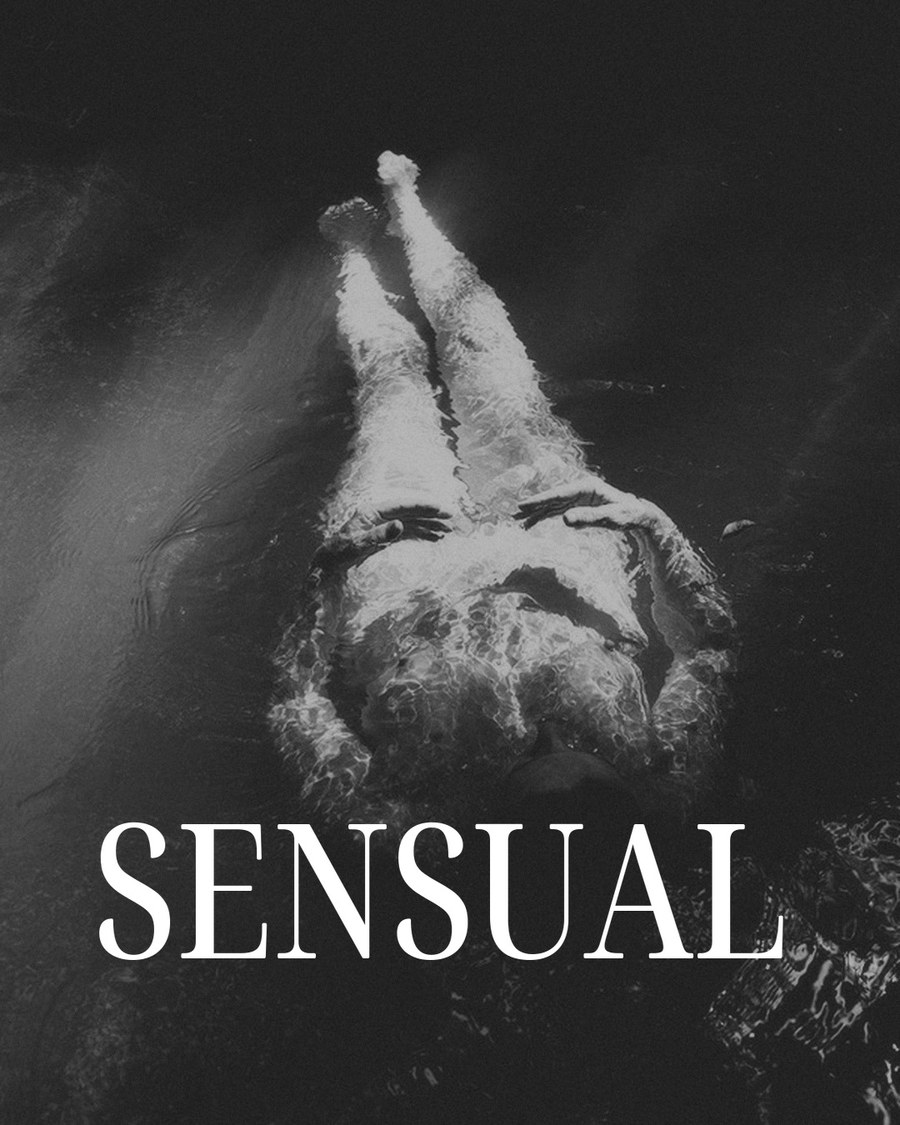
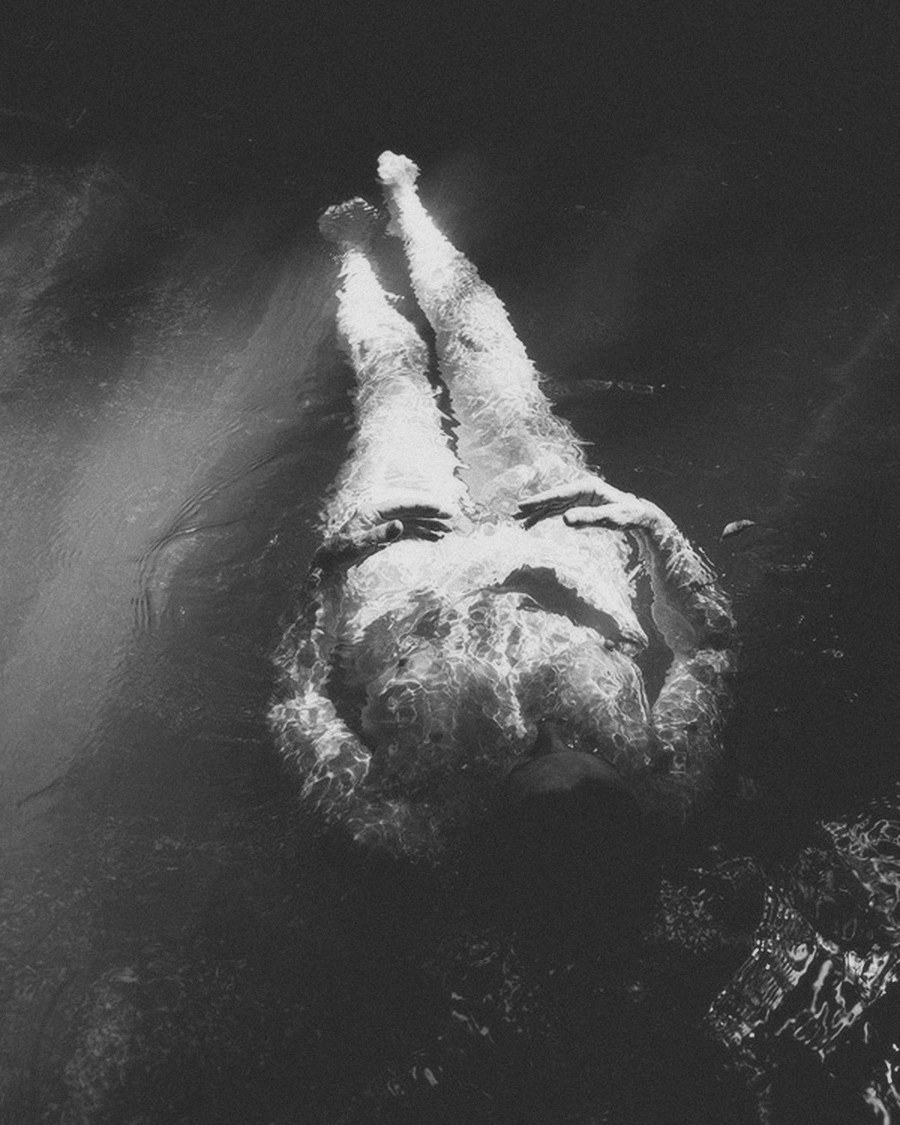
Tile 18: no SENSUAL word (old SENSUAL post stays live)

diff --git a/grid-restart-review/index.html b/grid-restart-review/index.html
@@ -75,7 +75,7 @@ textarea::placeholder{color:var(--muted)}
   <img src="img/grid.jpg" alt="The finished 24-image grid, 3 images across">
   <div class="txt">
     <h2>The whole grid</h2>
-    <p>Your layout, tile for tile: 12 posts carry one of your words (ORGANIC and FEMININE are the two to pin at the top), the other 12 are photos. Every caption is taken word for word from your own pages and posts.</p>
+    <p>Your layout, tile for tile: 11 posts carry one of your words (ORGANIC and FEMININE are the two to pin at the top), the other 13 are photos. Every caption is taken word for word from your own pages and posts.</p>
     <p>When you are done, press <b>Send on WhatsApp</b>, or <b>Copy verdict</b> to paste it anywhere.</p>
   </div>
 </div>
@@ -89,7 +89,7 @@ textarea::placeholder{color:var(--muted)}
 </div>
 </div>
 <script>
-const ITEMS = [{"n": 1, "src": "img/t01.jpg", "word": null, "cap": "Although we can become aware with the conscious mind of how our psyche is operating, unless the material is felt, welcomed and breathed into, nothing will shift. Until we feel our sensations and emotions, be with them, communicate with them, and stabilise our nervous system back into a sense of safety, we will not be able to relate to and make meaning of our experience in an embodied way. When we don’t listen to the body, we continue to live in separation from its wisdom. This fracture manifests not only in our relationship with ourselves, but with others, the earth and life itself.\n\nModern-day psychological approaches such as CBT are hyper-oriented to a mind-based understanding of our psychology and trauma. But until we merge the body/mind as one function; one operating system, I believe that the path towards truly integrating our pain, pleasure and potential will be stuck in the same old loops."}, {"n": 2, "src": "img/t02.jpg", "word": null, "cap": "Being free, embodied, and fully alive in our bodies as women is our birthright. But countless women around the world remain deeply oppressed, their voices silenced and their freedom denied. As women with access to greater freedoms, we hold a profound opportunity - and responsibility - to harness the liberties we have, breaking through the unconscious shackles we often don’t realize we carry. When we do this, we restore our frequency and being to their rightful, embodied, and liberated state.\n\nThis journey is not merely for our pleasure, although pleasure is essential and sacred. It is also for the women who cannot yet claim this freedom. Every step we take toward embodying our wholeness sends ripples outward, a quiet revolution of sovereignty that transcends borders and boundaries. We rise not just for ourselves, but for every woman still waiting for the chance to rise."}, {"n": 3, "src": "img/t03.jpg", "word": "FEMININE", "cap": "The Patriarchal Feminine manages herself.\nThe Organic Feminine inhabits herself.\n\nManaging myself looks like:\nholding my breath to be chosen,\nediting my truth to stay safe,\nmonitoring my body as something to control.\n\nIt’s not a flaw.\nIt’s an adaptation.\n\nInhabiting myself feels like:\narriving inside my breath,\ntrusting sensation,\nletting my yes and no come from the body.\n\nNo performance.\nNo strategy.\n\nThe shift from managing to inhabiting\nis not a mindset change\nit’s a somatic return.\n\nFrom control to presence.\nFrom survival to aliveness.\nFrom being handled\nto being home in myself."}, {"n": 4, "src": "img/t04.jpg", "word": null, "cap": "There really is no greater teacher in our lives than relationship to show us the truth.\n\nBut when we are there, in the thick of it, no matter how many years of personal work you've done... when we meet ourself in that deep, unbearable pain of vulnerability... what remains when the ideals of our perfect, conscious, integrated identity falls away?\n\nDirect, present moment relating from somatic intelligence is the ground of all relating. Beyond narratives and identity. Beyond structures and forms."}, {"n": 5, "src": "img/t05.jpg", "word": "SILENCE", "cap": "The body contracts when we don’t allow ourselves to reveal who we are, out of fear of rejection or of being judged as too much. So we stay quiet, calm, agreeable and nice. We swallow our words, and our bodies are left full with what is unsaid.\n\nSome days we name the grief beneath our rage.\nOther days we laugh through the awkwardness of old patterns.\nAnd sometimes, we simply breathe together in silence."}, {"n": 6, "src": "img/t06.jpg", "word": null, "cap": "As women, many of us often don't feel safe to just be ourselves. We were programmed & socialised to please others & live by unattainable standards of perfection & \"femininity\". We were taught to fixate on what we do, how we look, how successful, youthful & sexy we are, to affirm our worth."}, {"n": 7, "src": "img/t07.jpg", "word": "ALIVENESS", "cap": "You’ve been going through the motions and you’re exhausted by the distance between who you perform and who you actually are.\n\nYou long to feel alive in your body again, not just healthy, not just functional. Sensorially, genuinely alive.\n\nShadow work isn’t about fixing ourselves. It’s about remembering ourselves.\nIt’s the path from fragmentation to wholeness.\nFrom performance to presence.\nFrom numbness to feeling deeply, fully, vividly alive.\n\nWhat I’ve discovered, through fifteen years of this work, is that the body doesn’t forget. Beneath the conditioning, beneath the performance, beneath the exhaustion — the sensuous self is still there. Patient. Alive. Ready."}, {"n": 8, "src": "img/t08.jpg", "word": null, "cap": "When we make the choice to really sink into the world and wisdom of the body, we can learn the tools to be safe enough to simply feel, and we can invite our shadow back into our space with open arms.\n\nWe can lean in and submerge into our unconscious material in a way that allows the hidden, denied and exiled parts of ourselves to come back into the forefront of our expression. Rather than analysing, observing, or understanding them, we give them a tangible place to live in: inside our own skin.\n\nVery often, inside the parts that were pushed away, or that we learnt were not OK to reveal to ourselves or others, is where our real, soul-based expression comes alive.\n\nWhere our deepest calling for life, creativity, connection and purpose live."}, {"n": 9, "src": "img/t09.jpg", "word": "SOMA", "cap": "Our Western, patriarchal and colonial value systems have conditioned us to look outside of ourselves for authority, education, connection, pleasure, purpose and meaning.\n\nThis programming has exalted the mind, intellect and external orientation over the intelligence of the body and our own internal relationship with our visceral, powerful, sensual, heartful selves. We have normalised the constant and dissatisfying reaching and searching for fullness, nourishment and connection outside of our own skin.\n\nTo meet ourselves through our bodies and to live our lives in harmony with their ancient knowing, is to come into deep relationship with our innate WHOLENESS. This in itself is an act of resistance, as we subvert the cultural narrative of needing to consume more, do more and be more, and instead rest back into that which we already have and are."}, {"n": 10, "src": "img/t10.jpg", "word": null, "cap": "How can we reshape our approach to leadership, moving beyond the striving, the constant push to be better, the incessant honing of skills in the quest to become the best version of ourselves?\n\nInstead, what if we re-center our value system around leadership with the profound understanding that who we are, rather than what we do, is the true leader.\n\nBy anchoring ourselves in pleasure, we become the deeply attuned leaders who walk the paths that we inspire our communities to follow. Because we know that the way we lead mirrors the way we live."}, {"n": 11, "src": "img/t11.jpg", "word": "SLOW", "cap": "Within our somatics training, we prioritize the power of slowing down. Through this deliberate deceleration, we recalibrate our nervous system and cultivate a profound sense of bodily safety. Central to this is the practice of titration, which fine-tunes our nervous system's responses, ensuring a gentle and measured emotional journey. Where trauma can be overwhelming, titration emerges as its soothing counterbalance. More than just a technique, titration supports a broader paradigm shift, inviting a renewed approach to living, being, relating, and coaching. In contrast to our fast-paced culture, it places emphasis on time, rest, and presence in all life's facets, suggesting that slowing down is not just beneficial but essential. By embracing this philosophy as a lifestyle we start to feel ourselves, others & life in a new way- A way that feels deeply natural and connected."}, {"n": 12, "src": "img/t12.jpg", "word": "ORGANIC", "cap": "The Organic Feminine Principle is the compass that guides us towards our natural embodiment, beyond the confines of the outdated programming that has infiltrated our bodies, nervous systems, and the collective female psyche.\n\nThis principle moves us beyond narrow, restrictive notions of femininity to reclaim the wild, natural tapestry that is life in a woman's body.\n\nAt its heart, the Organic Feminine Principle is about embracing our innate somatic feminine intelligence. It encourages a rekindling of connection and trust in our cyclical nature, recognizing the messages of our nervous systems, and valuing our sensations and emotions as crucial sources of guidance and information. It invites us to celebrate our sensuality as a profound, life-affirming force that connects us deeply with ourselves, our community, and the world around us.\n\nRegardless of the stage of life you are in as women, the organic feminine principle invites you to return to a natural, embodied and truthful way of living."}, {"n": 13, "src": "img/t13.jpg", "word": "BREATH", "cap": "Questions to come back to your body:\n\nWhere is my breath and how is my breath, \n\nWhat is my body posture / expression communicating, \n\nWhat emotion is here, what images arise, what thoughts are here, what assumptions am I having right now?\n\nWhat do I feel is true, what can I reveal, even if it breaks my self image to pieces?"}, {"n": 14, "src": "img/t14.jpg", "word": null, "cap": "Sensuality is the capacity to feel, to be present in your skin, alive to texture and temperature, awake to your own breath. And it belongs to ALL women :\n\naging women\nlarge women\ndisabled women\ntired women\ngrieving women\nunconventional women\nwomen outside beauty standards\n\nWomen at any stage of their life.\n\nThis capacity was yours before anyone told you what your body should look like. It's yours still."}, {"n": 15, "src": "img/t15.jpg", "word": "LISTEN", "cap": "What does it mean to truly listen? Not just through the ears or the intellect of the mind, but through the body itself?\n\nWhen we enter the world of somatics, we begin to cultivate a different kind of listening. We learn to attune to sensation, to impulse, to the tensions that arise, the temperatures that fluctuate, the pulsations that move through us, and the emotions that live beneath our words.\n\nWe begin to recognise that the body has its own language. One that does not always speak in thoughts, explanations or neatly formed narratives.\n\nListening through the body is not simply another skill to acquire. It is a reclamation of an intelligence we have been conditioned to disconnect from in a world that privileges the intellect over embodied knowing.\n\nWe have been taught to think our way through life, to rationalise our feelings, override our impulses and seek answers outside of ourselves, often before we have even paused to feel what is happening within us.\n\nOne of the most powerful and sovereign acts we can undertake is to reclaim our capacity to listen through the body.\n\nTo remember that knowing is not only something we think.\n\nIt is something we feel, sense and experience.\n\nAnd sometimes, the body knows long before the mind has found the words."}, {"n": 16, "src": "img/t16.jpg", "word": null, "cap": "What patterns do I keep repeating that hold me in cycles of disconnection?\n\nAm I aware of the stories I have created that keep me separate from my own power?\n\nCan I recognise the subtle ways I diminish myself? The ways I put myself down, question my worth, abandon my needs or make myself smaller than I truly am?\n\nWhat beliefs have I rehearsed so many times that I have come to mistake them for truth?\n\nAnd where am I still participating in my own disconnection, not because I consciously choose it, but because it has become so familiar that I no longer recognise it?\n\nWhat parts of myself am I ready to reclaim?\n\nAnd who might I become if I stopped relating to myself through the stories that have kept me small?"}, {"n": 17, "src": "img/t17.jpg", "word": "WILD", "cap": "Wild.\n\nWhat does this word awaken in you?\n\nWhat feelings arise when you sit with your own Wild? Do you know her? Have you met the parts of yourself that refuse to be tamed, softened, silenced or made more palatable?\n\nHas she claimed you yet? Have you allowed her to?\n\nOr are you still subscribed to the conditioning that keeps you neatly packaged, contained and pleasing? Performing a version of femininity that is acceptable, desirable and digestible through the patriarchal gaze?\n\nWhat might emerge if you stopped trying to be the kind of woman you were taught to be?\n\nWho is the woman beneath the conditioning?\n\nAnd what would it mean to let her be truly Wild?"}, {"n": 18, "src": "img/t18.jpg", "word": "SENSUAL", "cap": "Sensuality belongs to all women.\n\nSensuality is not inherently sexual. It is not about sex, desirability or how we are perceived by another.\n\nIt is about the deeply felt experience of being alive.\n\nThe capacity to sense, to feel, to be moved by life. To experience pleasure through our senses, to inhabit the textures of our bodies, to feel the richness of our own existence.\n\nWhere have you conflated sensuality with sexuality? Where have you learned to associate your sensual nature with being sexually available, desirable or pleasing to another?\n\nAnd in doing so, where have you denied yourself your own birthright?\n\nThe right to feel deeply. To experience pleasure without it needing to lead anywhere. To belong to your body without it being for anyone else’s consumption.\n\nWhen sensuality becomes something we associate only with sexuality, we risk disconnecting from one of the most fundamental aspects of our embodied experience as women.\n\nWe forget that our sensuality exists for us.\n\nIn the warmth of sunlight against our skin. In the pleasure of movement. In the textures, tastes, sounds and sensations that remind us we are living, breathing, feeling beings.\n\nYour sensuality is not something you perform. It is something you inhabit.\n\nAnd reclaiming it is reclaiming your birthright to live a fully felt, embodied and profoundly alive life as a woman."}, {"n": 19, "src": "img/t19.jpg", "word": "FEEL", "cap": "FEEL.\n\nWhat if the whole point of being alive is to feel?\n\nTo feel the fullness of this human experience. The beauty, the grief, the longing, the pleasure, the tenderness, the discomfort. All of it.\n\nAnd yet, we are so terrified of feeling.\n\nWe block, we numb, we avoid, we distract. We build lives around keeping ourselves occupied, seeking stimulation outside of ourselves, finding endless ways to escape the very sensations that remind us we are alive.\n\nAnd somewhere along the way, we begin living a life half-lived.\n\nA life experienced from the outside in, where we are moving through the world, but the world is no longer truly touching us from within.\n\nWhat does it mean to truly feel?\n\nTo sense the continuous micro-movements of life happening inside us? The subtle shifts, the contractions, the expansions, the pulsations, the emotions that rise and fall like waves?\n\nTo allow ourselves to be touched by life rather than constantly protecting ourselves from it?\n\nThis is not about overwhelming ourselves with feeling or forcing ourselves to experience everything at once. It is about slowly cultivating the capacity to be with more of our own aliveness.\n\nTo discover that we can feel deeply without losing ourselves.\n\nThat our sensitivity is not something to overcome, but something that connects us to the extraordinary intimacy of being human.\n\nWe did not come here simply to observe life from a safe distance. We came here to be touched by it. To feel it moving through us. To be fully, profoundly alive."}, {"n": 20, "src": "img/t20.jpg", "word": null, "cap": "What would it be like if you took a moment each day to simply be?\n\nTo sit with the rocks, the water, the sound of the waves pressing against the shore. To feel the wind kissing your skin. To notice the subtle movements of life happening all around you, without needing to do anything with them.\n\nHow much of this do you give yourself?\n\nHow much space is there in your life for this kind of simplicity? For moments that ask nothing of you, where there is nowhere to get to, nothing to achieve, nothing to become?\n\nIn our constant seeking outside of ourselves, how far have we wandered from the simple beauty of being alive? From our relationship with nature, with stillness, with the quiet intimacy of the present moment?\n\nSomatics offers us a pathway back. A way of cultivating enough safety within ourselves to slow down, to soften our urgency, to feel the textures of life rather than constantly moving through them.\n\nTo remember that beauty is not always something we need to seek, create or chase.\n\nSometimes it is right here.\n\nIn the water. In the rocks. In the wind against our skin.\n\nIn the extraordinary simplicity of being alive.\n\nAnd in this moment, I find myself needing nothing else."}, {"n": 21, "src": "img/t21.jpg", "word": null, "cap": "It can feel like you’re alone in these feelings, but I want you to know that most women learned these sorts of very restrictive rules about themselves from a very young age. Our collective culture defined sensuality as the exclusive domain of the young, skinny, stereotypical model type of woman.\n\nBut this version of “woman” is a myth. It’s a fiction. This narrow definition of sensuality excludes almost every single woman on the planet.\n\nAnd the truth is - all of us human beings are worthy of a rich, delicious and nourishing connection to our sensuality, no matter your age, shape, size, or background."}, {"n": 22, "src": "img/t22.jpg", "word": null, "cap": "Now more than ever, what we need is embodied, attuned, and empathic presence.\n\nOur very essence is woven from connection - the innate desire to co-regulate, co-heal, and co-explore life's journey. Yet, many of us experienced a rupture in our earliest years, a lack of the attunement we needed as infants. This absence has contributed to a culture & life that often feels disconnected and disembodied.\n\nWe have the opportunity to change that together through somatics."}, {"n": 23, "src": "img/t23.jpg", "word": "BODY", "cap": "What happens when you begin to inhabit your body rather than objectify it?\n\nAt the heart of somatics is the practice of inhabitation. Learning to live inside the body rather than constantly managing it from the outside.\n\nSo much of our relationship with our bodies has been shaped by how we look, how we are perceived, how desirable we are, and how well we conform to aesthetic ideals.\n\nWe have learned to see ourselves through the eyes of others, to monitor, control, perfect and perform our bodies rather than actually live within them.\n\nTo begin feeling ourselves rather than constantly looking at ourselves is a profound paradigm shift.\n\nAnd yet, for many of us, this return to the body can feel deeply uncomfortable, even unsafe.\n\nWe may have spent years feeling betrayed by our bodies, overwhelmed by our emotions, disconnected from our sensations or frightened by the discomfort that lives within us.\n\nSometimes leaving the body, numbing ourselves or relating to it as an object was the very way we learned to survive.\n\nSo the invitation is not to force ourselves back in, but to slowly, gently cultivate a relationship with the body that feels safe enough to inhabit.\n\nTo begin listening rather than controlling. Feeling rather than performing. Living from within rather than constantly observing ourselves from the outside.\n\nThere is something profoundly liberating about reclaiming our bodies from the gaze of the world.\n\nAbout no longer treating the body as something we must endlessly improve in order to be worthy of inhabiting.\n\nYour body is not simply an object to be looked at, perfected or made desirable. It is the very place from which you experience being alive.\n\nAnd learning to come home to ourselves, to reclaim the parts of us that have been disconnected, objectified and abandoned, may be one of the most beautiful and profound acts of sovereignty we can undertake in this lifetime."}, {"n": 24, "src": "img/t24.jpg", "word": null, "cap": "Sensuality isn’t about being looked at, it’s about being felt.\n\nAnd, from a young age, many women learn to see themselves through someone else’s eyes. Instead of living inside the body, we monitor it: how it looks, how it’s judged, how it might be consumed.\n\nAnd woven through all of this is the quiet programming that sensuality belongs to other women\nthe younger women,\nthe thinner women,\nthe desirable women,\nthe women whose bodies fit the cultural script of femininity."}];
+const ITEMS = [{"n": 1, "src": "img/t01.jpg", "word": null, "cap": "Although we can become aware with the conscious mind of how our psyche is operating, unless the material is felt, welcomed and breathed into, nothing will shift. Until we feel our sensations and emotions, be with them, communicate with them, and stabilise our nervous system back into a sense of safety, we will not be able to relate to and make meaning of our experience in an embodied way. When we don’t listen to the body, we continue to live in separation from its wisdom. This fracture manifests not only in our relationship with ourselves, but with others, the earth and life itself.\n\nModern-day psychological approaches such as CBT are hyper-oriented to a mind-based understanding of our psychology and trauma. But until we merge the body/mind as one function; one operating system, I believe that the path towards truly integrating our pain, pleasure and potential will be stuck in the same old loops."}, {"n": 2, "src": "img/t02.jpg", "word": null, "cap": "Being free, embodied, and fully alive in our bodies as women is our birthright. But countless women around the world remain deeply oppressed, their voices silenced and their freedom denied. As women with access to greater freedoms, we hold a profound opportunity - and responsibility - to harness the liberties we have, breaking through the unconscious shackles we often don’t realize we carry. When we do this, we restore our frequency and being to their rightful, embodied, and liberated state.\n\nThis journey is not merely for our pleasure, although pleasure is essential and sacred. It is also for the women who cannot yet claim this freedom. Every step we take toward embodying our wholeness sends ripples outward, a quiet revolution of sovereignty that transcends borders and boundaries. We rise not just for ourselves, but for every woman still waiting for the chance to rise."}, {"n": 3, "src": "img/t03.jpg", "word": "FEMININE", "cap": "The Patriarchal Feminine manages herself.\nThe Organic Feminine inhabits herself.\n\nManaging myself looks like:\nholding my breath to be chosen,\nediting my truth to stay safe,\nmonitoring my body as something to control.\n\nIt’s not a flaw.\nIt’s an adaptation.\n\nInhabiting myself feels like:\narriving inside my breath,\ntrusting sensation,\nletting my yes and no come from the body.\n\nNo performance.\nNo strategy.\n\nThe shift from managing to inhabiting\nis not a mindset change\nit’s a somatic return.\n\nFrom control to presence.\nFrom survival to aliveness.\nFrom being handled\nto being home in myself."}, {"n": 4, "src": "img/t04.jpg", "word": null, "cap": "There really is no greater teacher in our lives than relationship to show us the truth.\n\nBut when we are there, in the thick of it, no matter how many years of personal work you've done... when we meet ourself in that deep, unbearable pain of vulnerability... what remains when the ideals of our perfect, conscious, integrated identity falls away?\n\nDirect, present moment relating from somatic intelligence is the ground of all relating. Beyond narratives and identity. Beyond structures and forms."}, {"n": 5, "src": "img/t05.jpg", "word": "SILENCE", "cap": "The body contracts when we don’t allow ourselves to reveal who we are, out of fear of rejection or of being judged as too much. So we stay quiet, calm, agreeable and nice. We swallow our words, and our bodies are left full with what is unsaid.\n\nSome days we name the grief beneath our rage.\nOther days we laugh through the awkwardness of old patterns.\nAnd sometimes, we simply breathe together in silence."}, {"n": 6, "src": "img/t06.jpg", "word": null, "cap": "As women, many of us often don't feel safe to just be ourselves. We were programmed & socialised to please others & live by unattainable standards of perfection & \"femininity\". We were taught to fixate on what we do, how we look, how successful, youthful & sexy we are, to affirm our worth."}, {"n": 7, "src": "img/t07.jpg", "word": "ALIVENESS", "cap": "You’ve been going through the motions and you’re exhausted by the distance between who you perform and who you actually are.\n\nYou long to feel alive in your body again, not just healthy, not just functional. Sensorially, genuinely alive.\n\nShadow work isn’t about fixing ourselves. It’s about remembering ourselves.\nIt’s the path from fragmentation to wholeness.\nFrom performance to presence.\nFrom numbness to feeling deeply, fully, vividly alive.\n\nWhat I’ve discovered, through fifteen years of this work, is that the body doesn’t forget. Beneath the conditioning, beneath the performance, beneath the exhaustion — the sensuous self is still there. Patient. Alive. Ready."}, {"n": 8, "src": "img/t08.jpg", "word": null, "cap": "When we make the choice to really sink into the world and wisdom of the body, we can learn the tools to be safe enough to simply feel, and we can invite our shadow back into our space with open arms.\n\nWe can lean in and submerge into our unconscious material in a way that allows the hidden, denied and exiled parts of ourselves to come back into the forefront of our expression. Rather than analysing, observing, or understanding them, we give them a tangible place to live in: inside our own skin.\n\nVery often, inside the parts that were pushed away, or that we learnt were not OK to reveal to ourselves or others, is where our real, soul-based expression comes alive.\n\nWhere our deepest calling for life, creativity, connection and purpose live."}, {"n": 9, "src": "img/t09.jpg", "word": "SOMA", "cap": "Our Western, patriarchal and colonial value systems have conditioned us to look outside of ourselves for authority, education, connection, pleasure, purpose and meaning.\n\nThis programming has exalted the mind, intellect and external orientation over the intelligence of the body and our own internal relationship with our visceral, powerful, sensual, heartful selves. We have normalised the constant and dissatisfying reaching and searching for fullness, nourishment and connection outside of our own skin.\n\nTo meet ourselves through our bodies and to live our lives in harmony with their ancient knowing, is to come into deep relationship with our innate WHOLENESS. This in itself is an act of resistance, as we subvert the cultural narrative of needing to consume more, do more and be more, and instead rest back into that which we already have and are."}, {"n": 10, "src": "img/t10.jpg", "word": null, "cap": "How can we reshape our approach to leadership, moving beyond the striving, the constant push to be better, the incessant honing of skills in the quest to become the best version of ourselves?\n\nInstead, what if we re-center our value system around leadership with the profound understanding that who we are, rather than what we do, is the true leader.\n\nBy anchoring ourselves in pleasure, we become the deeply attuned leaders who walk the paths that we inspire our communities to follow. Because we know that the way we lead mirrors the way we live."}, {"n": 11, "src": "img/t11.jpg", "word": "SLOW", "cap": "Within our somatics training, we prioritize the power of slowing down. Through this deliberate deceleration, we recalibrate our nervous system and cultivate a profound sense of bodily safety. Central to this is the practice of titration, which fine-tunes our nervous system's responses, ensuring a gentle and measured emotional journey. Where trauma can be overwhelming, titration emerges as its soothing counterbalance. More than just a technique, titration supports a broader paradigm shift, inviting a renewed approach to living, being, relating, and coaching. In contrast to our fast-paced culture, it places emphasis on time, rest, and presence in all life's facets, suggesting that slowing down is not just beneficial but essential. By embracing this philosophy as a lifestyle we start to feel ourselves, others & life in a new way- A way that feels deeply natural and connected."}, {"n": 12, "src": "img/t12.jpg", "word": "ORGANIC", "cap": "The Organic Feminine Principle is the compass that guides us towards our natural embodiment, beyond the confines of the outdated programming that has infiltrated our bodies, nervous systems, and the collective female psyche.\n\nThis principle moves us beyond narrow, restrictive notions of femininity to reclaim the wild, natural tapestry that is life in a woman's body.\n\nAt its heart, the Organic Feminine Principle is about embracing our innate somatic feminine intelligence. It encourages a rekindling of connection and trust in our cyclical nature, recognizing the messages of our nervous systems, and valuing our sensations and emotions as crucial sources of guidance and information. It invites us to celebrate our sensuality as a profound, life-affirming force that connects us deeply with ourselves, our community, and the world around us.\n\nRegardless of the stage of life you are in as women, the organic feminine principle invites you to return to a natural, embodied and truthful way of living."}, {"n": 13, "src": "img/t13.jpg", "word": "BREATH", "cap": "Questions to come back to your body:\n\nWhere is my breath and how is my breath, \n\nWhat is my body posture / expression communicating, \n\nWhat emotion is here, what images arise, what thoughts are here, what assumptions am I having right now?\n\nWhat do I feel is true, what can I reveal, even if it breaks my self image to pieces?"}, {"n": 14, "src": "img/t14.jpg", "word": null, "cap": "Sensuality is the capacity to feel, to be present in your skin, alive to texture and temperature, awake to your own breath. And it belongs to ALL women :\n\naging women\nlarge women\ndisabled women\ntired women\ngrieving women\nunconventional women\nwomen outside beauty standards\n\nWomen at any stage of their life.\n\nThis capacity was yours before anyone told you what your body should look like. It's yours still."}, {"n": 15, "src": "img/t15.jpg", "word": "LISTEN", "cap": "What does it mean to truly listen? Not just through the ears or the intellect of the mind, but through the body itself?\n\nWhen we enter the world of somatics, we begin to cultivate a different kind of listening. We learn to attune to sensation, to impulse, to the tensions that arise, the temperatures that fluctuate, the pulsations that move through us, and the emotions that live beneath our words.\n\nWe begin to recognise that the body has its own language. One that does not always speak in thoughts, explanations or neatly formed narratives.\n\nListening through the body is not simply another skill to acquire. It is a reclamation of an intelligence we have been conditioned to disconnect from in a world that privileges the intellect over embodied knowing.\n\nWe have been taught to think our way through life, to rationalise our feelings, override our impulses and seek answers outside of ourselves, often before we have even paused to feel what is happening within us.\n\nOne of the most powerful and sovereign acts we can undertake is to reclaim our capacity to listen through the body.\n\nTo remember that knowing is not only something we think.\n\nIt is something we feel, sense and experience.\n\nAnd sometimes, the body knows long before the mind has found the words."}, {"n": 16, "src": "img/t16.jpg", "word": null, "cap": "What patterns do I keep repeating that hold me in cycles of disconnection?\n\nAm I aware of the stories I have created that keep me separate from my own power?\n\nCan I recognise the subtle ways I diminish myself? The ways I put myself down, question my worth, abandon my needs or make myself smaller than I truly am?\n\nWhat beliefs have I rehearsed so many times that I have come to mistake them for truth?\n\nAnd where am I still participating in my own disconnection, not because I consciously choose it, but because it has become so familiar that I no longer recognise it?\n\nWhat parts of myself am I ready to reclaim?\n\nAnd who might I become if I stopped relating to myself through the stories that have kept me small?"}, {"n": 17, "src": "img/t17.jpg", "word": "WILD", "cap": "Wild.\n\nWhat does this word awaken in you?\n\nWhat feelings arise when you sit with your own Wild? Do you know her? Have you met the parts of yourself that refuse to be tamed, softened, silenced or made more palatable?\n\nHas she claimed you yet? Have you allowed her to?\n\nOr are you still subscribed to the conditioning that keeps you neatly packaged, contained and pleasing? Performing a version of femininity that is acceptable, desirable and digestible through the patriarchal gaze?\n\nWhat might emerge if you stopped trying to be the kind of woman you were taught to be?\n\nWho is the woman beneath the conditioning?\n\nAnd what would it mean to let her be truly Wild?"}, {"n": 18, "src": "img/t18.jpg", "word": null, "cap": "Sensuality belongs to all women.\n\nSensuality is not inherently sexual. It is not about sex, desirability or how we are perceived by another.\n\nIt is about the deeply felt experience of being alive.\n\nThe capacity to sense, to feel, to be moved by life. To experience pleasure through our senses, to inhabit the textures of our bodies, to feel the richness of our own existence.\n\nWhere have you conflated sensuality with sexuality? Where have you learned to associate your sensual nature with being sexually available, desirable or pleasing to another?\n\nAnd in doing so, where have you denied yourself your own birthright?\n\nThe right to feel deeply. To experience pleasure without it needing to lead anywhere. To belong to your body without it being for anyone else’s consumption.\n\nWhen sensuality becomes something we associate only with sexuality, we risk disconnecting from one of the most fundamental aspects of our embodied experience as women.\n\nWe forget that our sensuality exists for us.\n\nIn the warmth of sunlight against our skin. In the pleasure of movement. In the textures, tastes, sounds and sensations that remind us we are living, breathing, feeling beings.\n\nYour sensuality is not something you perform. It is something you inhabit.\n\nAnd reclaiming it is reclaiming your birthright to live a fully felt, embodied and profoundly alive life as a woman."}, {"n": 19, "src": "img/t19.jpg", "word": "FEEL", "cap": "FEEL.\n\nWhat if the whole point of being alive is to feel?\n\nTo feel the fullness of this human experience. The beauty, the grief, the longing, the pleasure, the tenderness, the discomfort. All of it.\n\nAnd yet, we are so terrified of feeling.\n\nWe block, we numb, we avoid, we distract. We build lives around keeping ourselves occupied, seeking stimulation outside of ourselves, finding endless ways to escape the very sensations that remind us we are alive.\n\nAnd somewhere along the way, we begin living a life half-lived.\n\nA life experienced from the outside in, where we are moving through the world, but the world is no longer truly touching us from within.\n\nWhat does it mean to truly feel?\n\nTo sense the continuous micro-movements of life happening inside us? The subtle shifts, the contractions, the expansions, the pulsations, the emotions that rise and fall like waves?\n\nTo allow ourselves to be touched by life rather than constantly protecting ourselves from it?\n\nThis is not about overwhelming ourselves with feeling or forcing ourselves to experience everything at once. It is about slowly cultivating the capacity to be with more of our own aliveness.\n\nTo discover that we can feel deeply without losing ourselves.\n\nThat our sensitivity is not something to overcome, but something that connects us to the extraordinary intimacy of being human.\n\nWe did not come here simply to observe life from a safe distance. We came here to be touched by it. To feel it moving through us. To be fully, profoundly alive."}, {"n": 20, "src": "img/t20.jpg", "word": null, "cap": "What would it be like if you took a moment each day to simply be?\n\nTo sit with the rocks, the water, the sound of the waves pressing against the shore. To feel the wind kissing your skin. To notice the subtle movements of life happening all around you, without needing to do anything with them.\n\nHow much of this do you give yourself?\n\nHow much space is there in your life for this kind of simplicity? For moments that ask nothing of you, where there is nowhere to get to, nothing to achieve, nothing to become?\n\nIn our constant seeking outside of ourselves, how far have we wandered from the simple beauty of being alive? From our relationship with nature, with stillness, with the quiet intimacy of the present moment?\n\nSomatics offers us a pathway back. A way of cultivating enough safety within ourselves to slow down, to soften our urgency, to feel the textures of life rather than constantly moving through them.\n\nTo remember that beauty is not always something we need to seek, create or chase.\n\nSometimes it is right here.\n\nIn the water. In the rocks. In the wind against our skin.\n\nIn the extraordinary simplicity of being alive.\n\nAnd in this moment, I find myself needing nothing else."}, {"n": 21, "src": "img/t21.jpg", "word": null, "cap": "It can feel like you’re alone in these feelings, but I want you to know that most women learned these sorts of very restrictive rules about themselves from a very young age. Our collective culture defined sensuality as the exclusive domain of the young, skinny, stereotypical model type of woman.\n\nBut this version of “woman” is a myth. It’s a fiction. This narrow definition of sensuality excludes almost every single woman on the planet.\n\nAnd the truth is - all of us human beings are worthy of a rich, delicious and nourishing connection to our sensuality, no matter your age, shape, size, or background."}, {"n": 22, "src": "img/t22.jpg", "word": null, "cap": "Now more than ever, what we need is embodied, attuned, and empathic presence.\n\nOur very essence is woven from connection - the innate desire to co-regulate, co-heal, and co-explore life's journey. Yet, many of us experienced a rupture in our earliest years, a lack of the attunement we needed as infants. This absence has contributed to a culture & life that often feels disconnected and disembodied.\n\nWe have the opportunity to change that together through somatics."}, {"n": 23, "src": "img/t23.jpg", "word": "BODY", "cap": "What happens when you begin to inhabit your body rather than objectify it?\n\nAt the heart of somatics is the practice of inhabitation. Learning to live inside the body rather than constantly managing it from the outside.\n\nSo much of our relationship with our bodies has been shaped by how we look, how we are perceived, how desirable we are, and how well we conform to aesthetic ideals.\n\nWe have learned to see ourselves through the eyes of others, to monitor, control, perfect and perform our bodies rather than actually live within them.\n\nTo begin feeling ourselves rather than constantly looking at ourselves is a profound paradigm shift.\n\nAnd yet, for many of us, this return to the body can feel deeply uncomfortable, even unsafe.\n\nWe may have spent years feeling betrayed by our bodies, overwhelmed by our emotions, disconnected from our sensations or frightened by the discomfort that lives within us.\n\nSometimes leaving the body, numbing ourselves or relating to it as an object was the very way we learned to survive.\n\nSo the invitation is not to force ourselves back in, but to slowly, gently cultivate a relationship with the body that feels safe enough to inhabit.\n\nTo begin listening rather than controlling. Feeling rather than performing. Living from within rather than constantly observing ourselves from the outside.\n\nThere is something profoundly liberating about reclaiming our bodies from the gaze of the world.\n\nAbout no longer treating the body as something we must endlessly improve in order to be worthy of inhabiting.\n\nYour body is not simply an object to be looked at, perfected or made desirable. It is the very place from which you experience being alive.\n\nAnd learning to come home to ourselves, to reclaim the parts of us that have been disconnected, objectified and abandoned, may be one of the most beautiful and profound acts of sovereignty we can undertake in this lifetime."}, {"n": 24, "src": "img/t24.jpg", "word": null, "cap": "Sensuality isn’t about being looked at, it’s about being felt.\n\nAnd, from a young age, many women learn to see themselves through someone else’s eyes. Instead of living inside the body, we monitor it: how it looks, how it’s judged, how it might be consumed.\n\nAnd woven through all of this is the quiet programming that sensuality belongs to other women\nthe younger women,\nthe thinner women,\nthe desirable women,\nthe women whose bodies fit the cultural script of femininity."}];
 let fb = {}, filt = {}, dbc = null, canSave = false, general = '';
 const LS = 'sifw-grid-restart-review';
 try { const o = JSON.parse(localStorage.getItem(LS) || '{}') || {}; fb = o.fb || {}; general = o.general || ''; } catch (e) {}
